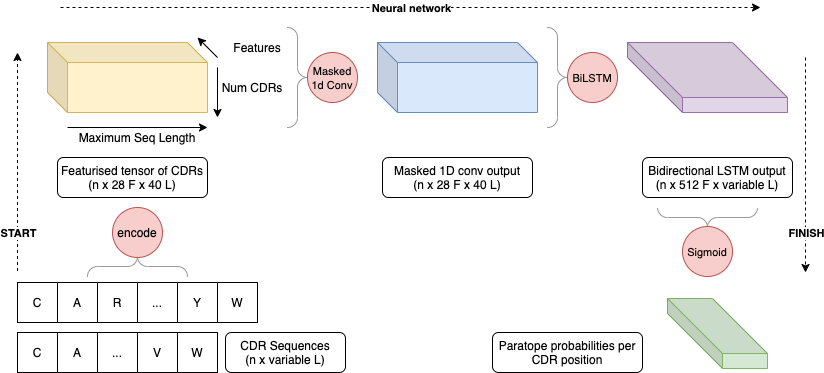
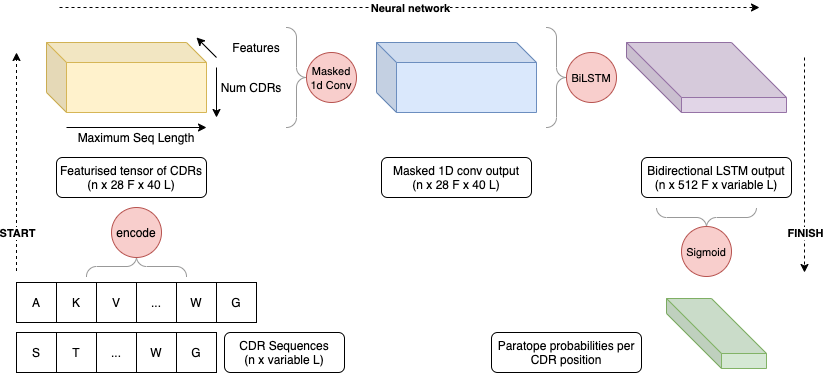
Test updating in light of +/- 2 rule

diff --git a/parapred/tests/test_parapred.py b/parapred/tests/test_parapred.py
@@ -5,9 +5,9 @@ from parapred.model import Parapred
 from parapred.preprocessing import encode_parapred, encode_batch
 from parapred.cnn import generate_mask
 
-
 FPATH = os.path.dirname(os.path.abspath(__file__))
 WEIGHTS_PATH = os.path.join(FPATH, "../weights/parapred_pytorch.h5")
+
 
 class ParapredTest(unittest.TestCase):
     def setUp(self):
@@ -15,12 +15,12 @@ class ParapredTest(unittest.TestCase):
         self.model.load_state_dict(torch.load(WEIGHTS_PATH))
         _ = self.model.eval()
 
-        self.sequence = "CAKYPYYYGTSHWYFDVW"
+        self.sequence = "YCQRYNRAPYTFG"
         self.max_length = 40
         self.num_features = 28
 
     def test_probailities(self):
-        encoding, lengths = encode_batch(["CAKYPYYYGTSHWYFDVW"], self.max_length)
+        encoding, lengths = encode_batch(["YCQRYNRAPYTFG"], self.max_length)
         m = generate_mask(encoding, lengths)
 
         with torch.no_grad():
@@ -30,9 +30,8 @@ class ParapredTest(unittest.TestCase):
 
         self.assertTrue(
             torch.allclose(
-                torch.Tensor([0.00617, 0.01301, 0.15066, 0.36306, 0.17887, 0.19109, 0.87802,
-                              0.8394, 0.62666, 0.63762, 0.67999, 0.65898, 0.41061, 0.75221, 0.17845,
-                              0.28998, 0.12861, 0.22138]), v,
+                torch.Tensor([0.03122, 0.00289, 0.01522, 0.03233, 0.91215, 0.82423, 0.87741,
+                              0.77854, 0.24664, 0.76494, 0.00932, 0.00534, 0.00251]), v,
                 rtol=1e-2
             )
         )
@@ -46,22 +45,38 @@ class ParapredTest(unittest.TestCase):
 
         self.assertTrue(
             torch.allclose(
-                torch.Tensor([[1.0000, 0.0000, 0.0000, 0.0000, 0.0000, 0.0000, 0.0000, 0.0000,
+                torch.Tensor([[0.0000, 0.0000, 0.0000, 0.0000, 0.0000, 0.0000, 0.0000, 0.0000,
+                               0.0000, 0.0000, 0.0000, 0.0000, 0.0000, 0.0000, 0.0000, 0.0000,
+                               0.0000, 0.0000, 1.0000, 0.0000, 0.0000, 2.9400, 0.3000, 6.4700,
+                               0.9600, 5.6600, 0.2500, 0.4100],
+                              [1.0000, 0.0000, 0.0000, 0.0000, 0.0000, 0.0000, 0.0000, 0.0000,
                                0.0000, 0.0000, 0.0000, 0.0000, 0.0000, 0.0000, 0.0000, 0.0000,
                                0.0000, 0.0000, 0.0000, 0.0000, 0.0000, 1.7700, 0.1300, 2.4300,
                                1.5400, 6.3500, 0.1700, 0.4100],
-                              [0.0000, 0.0000, 0.0000, 0.0000, 1.0000, 0.0000, 0.0000, 0.0000,
-                               0.0000, 0.0000, 0.0000, 0.0000, 0.0000, 0.0000, 0.0000, 0.0000,
-                               0.0000, 0.0000, 0.0000, 0.0000, 0.0000, 1.2800, 0.0500, 1.0000,
-                               0.3100, 6.1100, 0.4200, 0.2300],
                               [0.0000, 0.0000, 0.0000, 0.0000, 0.0000, 0.0000, 0.0000, 0.0000,
-                               0.0000, 0.0000, 0.0000, 0.0000, 1.0000, 0.0000, 0.0000, 0.0000,
-                               0.0000, 0.0000, 0.0000, 0.0000, 0.0000, 1.8900, 0.2200, 4.7700,
-                               -0.9900, 9.9900, 0.3200, 0.2700],
+                               0.0000, 1.0000, 0.0000, 0.0000, 0.0000, 0.0000, 0.0000, 0.0000,
+                               0.0000, 0.0000, 0.0000, 0.0000, 0.0000, 1.5600, 0.1800, 3.9500,
+                               -0.2200, 5.6500, 0.3600, 0.2500],
+                              [0.0000, 0.0000, 0.0000, 0.0000, 0.0000, 0.0000, 0.0000, 0.0000,
+                               0.0000, 0.0000, 0.0000, 1.0000, 0.0000, 0.0000, 0.0000, 0.0000,
+                               0.0000, 0.0000, 0.0000, 0.0000, 0.0000, 2.3400, 0.2900, 6.1300,
+                               -1.0100, 10.7400, 0.3600, 0.2500],
                               [0.0000, 0.0000, 0.0000, 0.0000, 0.0000, 0.0000, 0.0000, 0.0000,
                                0.0000, 0.0000, 0.0000, 0.0000, 0.0000, 0.0000, 0.0000, 0.0000,
                                0.0000, 0.0000, 1.0000, 0.0000, 0.0000, 2.9400, 0.3000, 6.4700,
                                0.9600, 5.6600, 0.2500, 0.4100],
+                              [0.0000, 0.0000, 0.0000, 0.0000, 0.0000, 0.0000, 1.0000, 0.0000,
+                               0.0000, 0.0000, 0.0000, 0.0000, 0.0000, 0.0000, 0.0000, 0.0000,
+                               0.0000, 0.0000, 0.0000, 0.0000, 0.0000, 1.6000, 0.1300, 2.9500,
+                               -0.6000, 6.5200, 0.2100, 0.2200],
+                              [0.0000, 0.0000, 0.0000, 0.0000, 0.0000, 0.0000, 0.0000, 0.0000,
+                               0.0000, 0.0000, 0.0000, 1.0000, 0.0000, 0.0000, 0.0000, 0.0000,
+                               0.0000, 0.0000, 0.0000, 0.0000, 0.0000, 2.3400, 0.2900, 6.1300,
+                               -1.0100, 10.7400, 0.3600, 0.2500],
+                              [0.0000, 0.0000, 0.0000, 0.0000, 1.0000, 0.0000, 0.0000, 0.0000,
+                               0.0000, 0.0000, 0.0000, 0.0000, 0.0000, 0.0000, 0.0000, 0.0000,
+                               0.0000, 0.0000, 0.0000, 0.0000, 0.0000, 1.2800, 0.0500, 1.0000,
+                               0.3100, 6.1100, 0.4200, 0.2300],
                               [0.0000, 0.0000, 0.0000, 1.0000, 0.0000, 0.0000, 0.0000, 0.0000,
                                0.0000, 0.0000, 0.0000, 0.0000, 0.0000, 0.0000, 0.0000, 0.0000,
                                0.0000, 0.0000, 0.0000, 0.0000, 0.0000, 2.6700, 0.0000, 2.7200,
@@ -70,59 +85,23 @@ class ParapredTest(unittest.TestCase):
                                0.0000, 0.0000, 0.0000, 0.0000, 0.0000, 0.0000, 0.0000, 0.0000,
                                0.0000, 0.0000, 1.0000, 0.0000, 0.0000, 2.9400, 0.3000, 6.4700,
                                0.9600, 5.6600, 0.2500, 0.4100],
-                              [0.0000, 0.0000, 0.0000, 0.0000, 0.0000, 0.0000, 0.0000, 0.0000,
-                               0.0000, 0.0000, 0.0000, 0.0000, 0.0000, 0.0000, 0.0000, 0.0000,
-                               0.0000, 0.0000, 1.0000, 0.0000, 0.0000, 2.9400, 0.3000, 6.4700,
-                               0.9600, 5.6600, 0.2500, 0.4100],
-                              [0.0000, 0.0000, 0.0000, 0.0000, 0.0000, 0.0000, 0.0000, 0.0000,
-                               0.0000, 0.0000, 0.0000, 0.0000, 0.0000, 0.0000, 0.0000, 0.0000,
-                               0.0000, 0.0000, 1.0000, 0.0000, 0.0000, 2.9400, 0.3000, 6.4700,
-                               0.9600, 5.6600, 0.2500, 0.4100],
-                              [0.0000, 0.0000, 0.0000, 0.0000, 0.0000, 1.0000, 0.0000, 0.0000,
-                               0.0000, 0.0000, 0.0000, 0.0000, 0.0000, 0.0000, 0.0000, 0.0000,
-                               0.0000, 0.0000, 0.0000, 0.0000, 0.0000, 0.0000, 0.0000, 0.0000,
-                               0.0000, 6.0700, 0.1300, 0.1500],
                               [0.0000, 0.0000, 1.0000, 0.0000, 0.0000, 0.0000, 0.0000, 0.0000,
                                0.0000, 0.0000, 0.0000, 0.0000, 0.0000, 0.0000, 0.0000, 0.0000,
                                0.0000, 0.0000, 0.0000, 0.0000, 0.0000, 3.0300, 0.1100, 2.6000,
                                0.2600, 5.6000, 0.2100, 0.3600],
-                              [0.0000, 1.0000, 0.0000, 0.0000, 0.0000, 0.0000, 0.0000, 0.0000,
-                               0.0000, 0.0000, 0.0000, 0.0000, 0.0000, 0.0000, 0.0000, 0.0000,
-                               0.0000, 0.0000, 0.0000, 0.0000, 0.0000, 1.3100, 0.0600, 1.6000,
-                               -0.0400, 5.7000, 0.2000, 0.2800],
-                              [0.0000, 0.0000, 0.0000, 0.0000, 0.0000, 0.0000, 0.0000, 0.0000,
-                               0.0000, 0.0000, 1.0000, 0.0000, 0.0000, 0.0000, 0.0000, 0.0000,
-                               0.0000, 0.0000, 0.0000, 0.0000, 0.0000, 2.9900, 0.2300, 4.6600,
-                               0.1300, 7.6900, 0.2700, 0.3000],
-                              [0.0000, 0.0000, 0.0000, 0.0000, 0.0000, 0.0000, 0.0000, 0.0000,
-                               0.0000, 0.0000, 0.0000, 0.0000, 0.0000, 0.0000, 0.0000, 0.0000,
-                               0.0000, 0.0000, 0.0000, 1.0000, 0.0000, 3.2100, 0.4100, 8.0800,
-                               2.2500, 5.9400, 0.3200, 0.4200],
-                              [0.0000, 0.0000, 0.0000, 0.0000, 0.0000, 0.0000, 0.0000, 0.0000,
-                               0.0000, 0.0000, 0.0000, 0.0000, 0.0000, 0.0000, 0.0000, 0.0000,
-                               0.0000, 0.0000, 1.0000, 0.0000, 0.0000, 2.9400, 0.3000, 6.4700,
-                               0.9600, 5.6600, 0.2500, 0.4100],
                               [0.0000, 0.0000, 0.0000, 0.0000, 0.0000, 0.0000, 0.0000, 0.0000,
                                0.0000, 0.0000, 0.0000, 0.0000, 0.0000, 0.0000, 0.0000, 0.0000,
                                0.0000, 1.0000, 0.0000, 0.0000, 0.0000, 2.9400, 0.2900, 5.8900,
                                1.7900, 5.6700, 0.3000, 0.3800],
-                              [0.0000, 0.0000, 0.0000, 0.0000, 0.0000, 0.0000, 0.0000, 1.0000,
+                              [0.0000, 0.0000, 0.0000, 0.0000, 0.0000, 1.0000, 0.0000, 0.0000,
                                0.0000, 0.0000, 0.0000, 0.0000, 0.0000, 0.0000, 0.0000, 0.0000,
-                               0.0000, 0.0000, 0.0000, 0.0000, 0.0000, 1.6000, 0.1100, 2.7800,
-                               -0.7700, 2.9500, 0.2500, 0.2000],
-                              [0.0000, 0.0000, 0.0000, 0.0000, 0.0000, 0.0000, 0.0000, 0.0000,
                                0.0000, 0.0000, 0.0000, 0.0000, 0.0000, 0.0000, 0.0000, 0.0000,
-                               1.0000, 0.0000, 0.0000, 0.0000, 0.0000, 3.6700, 0.1400, 3.0000,
-                               1.2200, 6.0200, 0.2700, 0.4900],
-                              [0.0000, 0.0000, 0.0000, 0.0000, 0.0000, 0.0000, 0.0000, 0.0000,
-                               0.0000, 0.0000, 0.0000, 0.0000, 0.0000, 0.0000, 0.0000, 0.0000,
-                               0.0000, 0.0000, 0.0000, 1.0000, 0.0000, 3.2100, 0.4100, 8.0800,
-                               2.2500, 5.9400, 0.3200, 0.4200]]), encoded_representation
+                               0.0000, 6.0700, 0.1300, 0.1500]]), encoded_representation
             )
         )
 
     def test_batch_prediction(self):
-        batch = ["CAKYPYYYGTSHWYFDVW", "CSQSYNYPYTF"]
+        batch = ["SRWGGDGFYAMDYWG", "YCQRYNRAPYTFG"]
         encoding, lengths = encode_batch(batch, self.max_length)
         m = generate_mask(encoding, lengths)
 
@@ -134,16 +113,16 @@ class ParapredTest(unittest.TestCase):
 
         self.assertTrue(
             torch.allclose(
-                torch.Tensor([0.00617, 0.01301, 0.15066, 0.36306, 0.17887, 0.19109, 0.87802,
-                              0.8394, 0.62666, 0.63762, 0.67999, 0.65898, 0.41061, 0.75221, 0.17845,
-                              0.28998, 0.12861, 0.22138]), v1,
+                torch.Tensor([0.04144, 0.34117, 0.97052, 0.67401, 0.9148, 0.93996, 0.81214,
+                              0.78589, 0.94175, 0.04701, 0.06284, 0.18635, 0.08849, 0.00447,
+                              0.00532]), v1,
                 rtol=1e-2
             )
         )
         self.assertTrue(
             torch.allclose(
-                torch.Tensor([0.00422, 0.04747, 0.35151, 0.41757, 0.53621, 0.83283, 0.78089, 0.93526,
-                              0.71154, 0.81395, 0.17341]), v2,
+                torch.Tensor([0.03122, 0.00289, 0.01522, 0.03233, 0.91215, 0.82423, 0.87741,
+                              0.77854, 0.24664, 0.76494, 0.00932, 0.00534, 0.00251]), v2,
                 rtol=1e-2
             )
         )

diff --git a/README.md b/README.md
@@ -8,8 +8,12 @@
 
 
 This repo is a PyTorch implementation of the original Parapred code from [Liberis
-et al., 2018](https://academic.oup.com/bioinformatics/article/34/17/2944/4972995). We would also like to point
-users to the [original Github repo for Parapred](https://github.com/eliberis/parapred), based on [Keras](https://keras.io/).
+et al., 2018](https://academic.oup.com/bioinformatics/article/34/17/2944/4972995). 
+
+We would also like to point users to the [original Github repo for Parapred](https://github.com/eliberis/parapred),
+based on [Keras](https://keras.io/).
+
+![Banner](banner.png)
 
 ## Table of Contents
 * [Setup](#setup)
@@ -44,6 +48,9 @@ $ docker build -t parapred_pytorch:latest .
 
 ## Running instructions
 
+Parapred takes as input any Chothia-defined CDR sequence + 2 residues on either side. We provide a [table](#numbering)
+to help translate between IMGT numbers and Chothia numbers.
+
 To run Parapred, this depends on whether you used Conda/Pip or Docker.
 
 ### Conda/Pip
@@ -52,43 +59,47 @@ After install,
 $ python cli.py predict <CDR_SEQUENCE> [OPTIONS]
 ```
 
-e.g. to predict on the CDRH3 sequence of ranibizumab and save the results to `output_ranibizumab.json`,
+e.g. to predict on the CDRH3 sequence (+2 residues on either side) of
+adalimumab (AKVSYLSTASSLDYWG) and save the results to `output_adalimumab.json`,
 ```bash
-$ python cli.py predict CAKYPYYYGTSHWYFDVW -v -o output_ranibizumab.json
+$ python cli.py predict AKVSYLSTASSLDYWG -v -o output_adalimumab.json
 ```
 
 ### Output format
 The output of Parapred is a JSON file:
 ```json
 {
-  "CSQSYNYPYTF":[
-    ["C",0.00422],["S",0.04747],["Q",0.35151],["S",0.41757],
-    ["Y",0.53621],["N",0.83283],["Y",0.78089],["P",0.93526],
-    ["Y",0.71154],["T",0.81395],["F",0.17341]
+  "AKVSYLSTASSLDYWG":[
+    ["A",0.01034],["K",0.23327],["V",0.70882],["S",0.6835],
+    ["Y",0.93412],["L",0.98127],["S",0.95116],["T",0.89977],
+    ["A",0.77837],["S",0.83716],["S",0.29981],["L",0.03982],
+    ["D",0.14933],["Y",0.10781],["W",0.00362],["G",0.00776]
   ]
 }
 ```
 
 From the command line, we advise using tools such as [jq](https://stedolan.github.io/jq/), and here's a link
 to a [good blog post on how to use it](https://clarewest.github.io/blog/post/handling-json-data-with-jq/). For
-example, to get the residues whose Parapred probabilities are over 0.5,
+example, to get the residues whose Parapred probabilities are over 0.6,
 
 ```bash
-$ jq -c '.[] | .[] | select(.[1] >= 0.5)' output.json
-# output using CSQSYNYPYTF
-# ["Y",0.53621]
-# ["N",0.83283]
-# ["Y",0.78089]
-# ["P",0.93526]
-# ["Y",0.71154]
-# ["T",0.81395]
+$ jq -c '.[] | .[] | select(.[1] >= 0.6)' output.json
+# output using AKVSYLSTASSLDYWG
+["V",0.70882]
+["S",0.6835]
+["Y",0.93412]
+["L",0.98127]
+["S",0.95116]
+["T",0.89977]
+["A",0.77837]
+["S",0.83716]
 ``` 
  
 
 ### Docker
 The Docker equivalent is
 ```bash
-docker run -v /tmp:/data parapred_pytorch:latest predict CAKYPYYYGTSHWYFDVW -v -o /data/output_ranibizumab.json
+docker run -v /tmp:/data parapred_pytorch:latest predict AKVSYLSTASSLDYWG -v -o /data/output_adalimumab.json
 ```
 * The first `-v` flag _before_ the Docker image tag (`parapred_pytorch:latest`) mounts your `/tmp` folder to the `/data`
 folder of the Docker container
@@ -107,7 +118,7 @@ from parapred.cnn import generate_mask
 from parapred.preprocessing import encode_batch
 
 # prepare your input
-sequences = (["CAKYPYYYGTSHWYFDVW", "CSQSYNYPYTF"])
+sequences = (["AKVSYLSTASSLDYWG", "YCQRYNRAPYTFG"])
 
 # encoded is a tensor of (batch_size x features x max_length). so is mask.
 encoded, lengths = encode_batch(sequences, max_length = 40)
@@ -134,9 +145,9 @@ mapped = [list(zip(sequences[i], pr)) for i, pr in enumerate(probs)]
 ## Additional notes
 
 ### How Parapred works
-We strongly encourage you to read the paper by [Liberis
-et al., 2018.](https://academic.oup.com/bioinformatics/article/34/17/2944/4972995) as it contains details on
-the training and testing that led up to this work. In short, 
+We encourage you to read the paper by [Liberis
+et al., 2018](https://academic.oup.com/bioinformatics/article/34/17/2944/4972995) as it contains details on
+the training and testing that led up to the neural network architecture and parameters. In short, 
 * Parapred first featurises sequences in to a `(B x F x L)` tensor, where `F = 28, L = 40`
 * Parapred then applies a masked 1D convolution; the output is still `(B x F x L)`, but a mask is applied to
 "zero out" positions that should really be pads.
@@ -151,25 +162,26 @@ Parapred-pytorch (this repo) is written to help researchers rapidly predict para
 is a more minimalist implementation that focusses more on providing inference capabilities. We provide here the
 pre-trained weights from the original Parapred Github repo, which were translated to fit the PyTorch framework.
 
-The original Parapred method was based on the Chothia-defined CDRs based on the Chothia numbering. We provide
-a table mapping the CDR Chothia boundaries in the corresponding IMGT numbers. Note that these are **not**
-identical to the IMGT boundaries of the CDRs; e.g. CDRH3 according to the IMGT definition is IMGT H105-H117.
+### Numbering
+The original Parapred method was based on the Chothia-defined CDRs based on the Chothia numbering. We provide a table
+mapping the CDR Chothia boundaries in the corresponding IMGT numbers. Note that these are **not** identical to the IMGT
+boundaries of the CDRs; e.g. CDRH3 according to the IMGT definition is IMGT H105-H117.
 
-| CDR | Chothia numbers | IMGT numbers | 
-| --- | --------------- | ------------ |
-| H1  |  H26-H34        | H27-H37 |
-| H2  |  H52-H56        | H57-H64 |
-| H3  |  H95-H102       | H107-H117 |
-| L1  |  L24-L34        | L24-40 |
-| L2  |  L50-L56        | L56-L69 |
-| L3  |  L89-L97 | L105-L117|
+| CDR | Chothia numbers | IMGT numbers | Parapred input (IMGT) | 
+| --- | --------------- | ------------ | --------------- |
+| H1  |  H26-H34        | H27-H37 | H25-H39 | 
+| H2  |  H52-H56        | H57-H64 | H55-H66 |
+| H3  |  H95-H102       | H107-H117 | H105-H119 |
+| L1  |  L24-L34        | L24-40 | L22-L42 |
+| L2  |  L50-L56        | L56-L69 | L54-L71 |
+| L3  |  L89-L97 | L105-L117| L103-L119 |
 
 ### LSTM activations
 Our implementation provides users the ability to test Parapred using `sigmoid` activations for the
 LSTM layer:
 
 ```bash
-$ python cli.py predict CAKYPYYYGTSHWYFDVW -s -v
+$ python cli.py predict AKVSYLSTASSLDYWG -s -v
 ``` 
 
 The original Parapred method was based on Tensorflow 1.2/Keras, which had used `hard_sigmoid`
